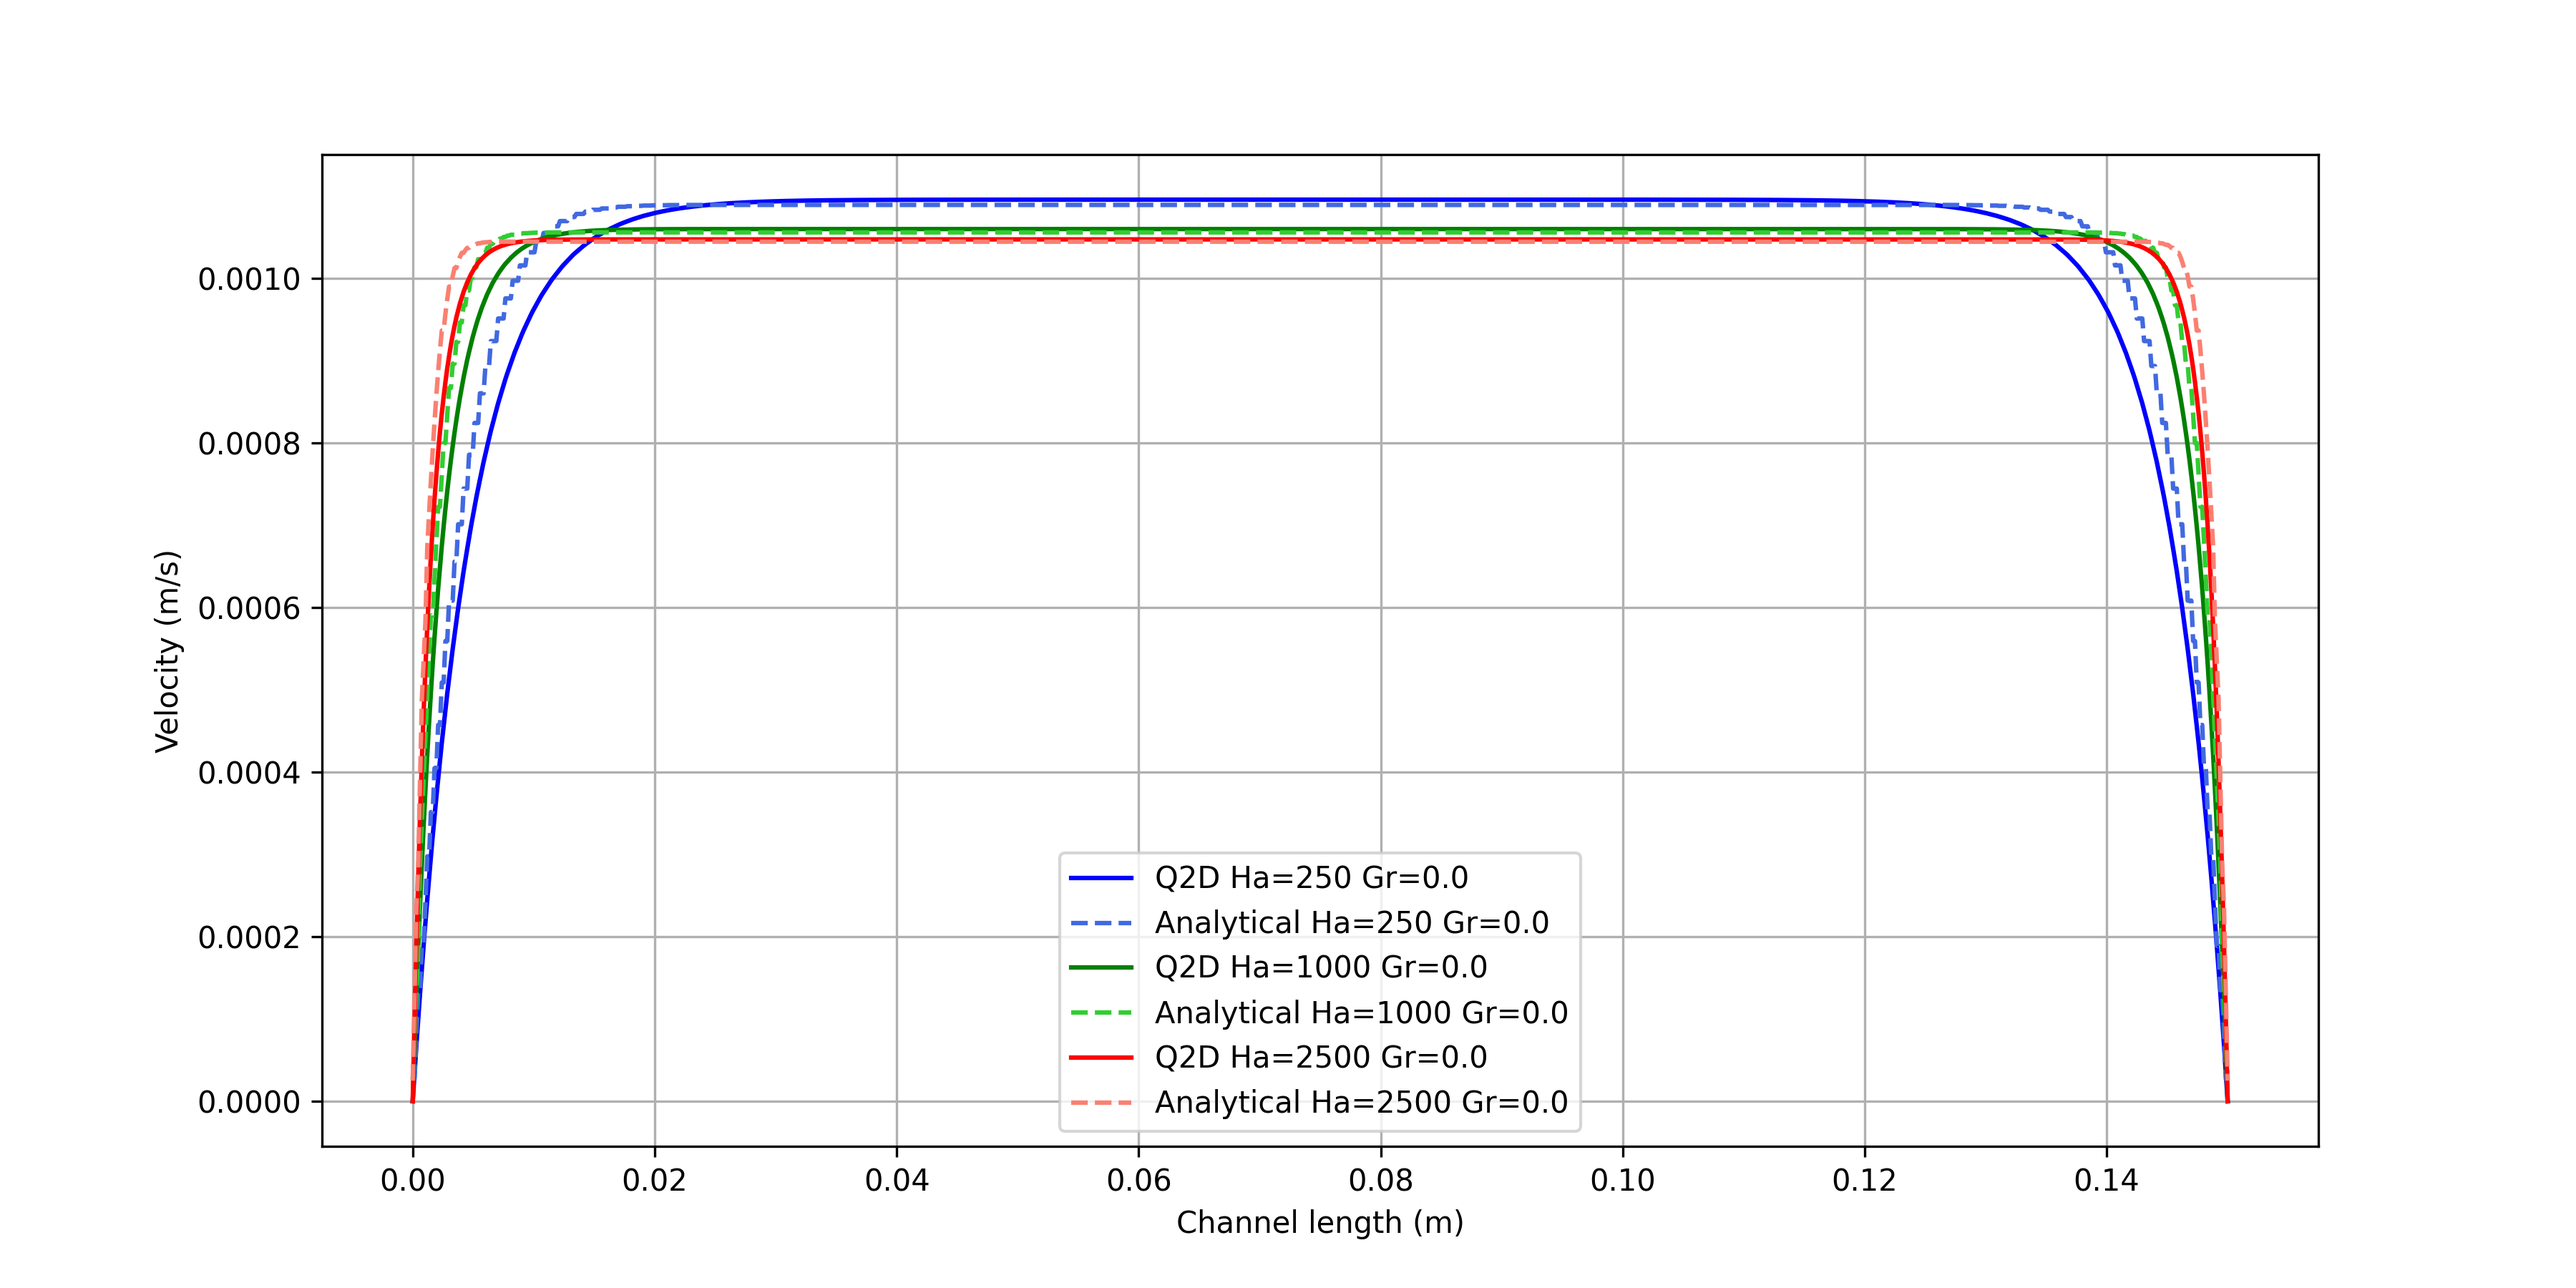
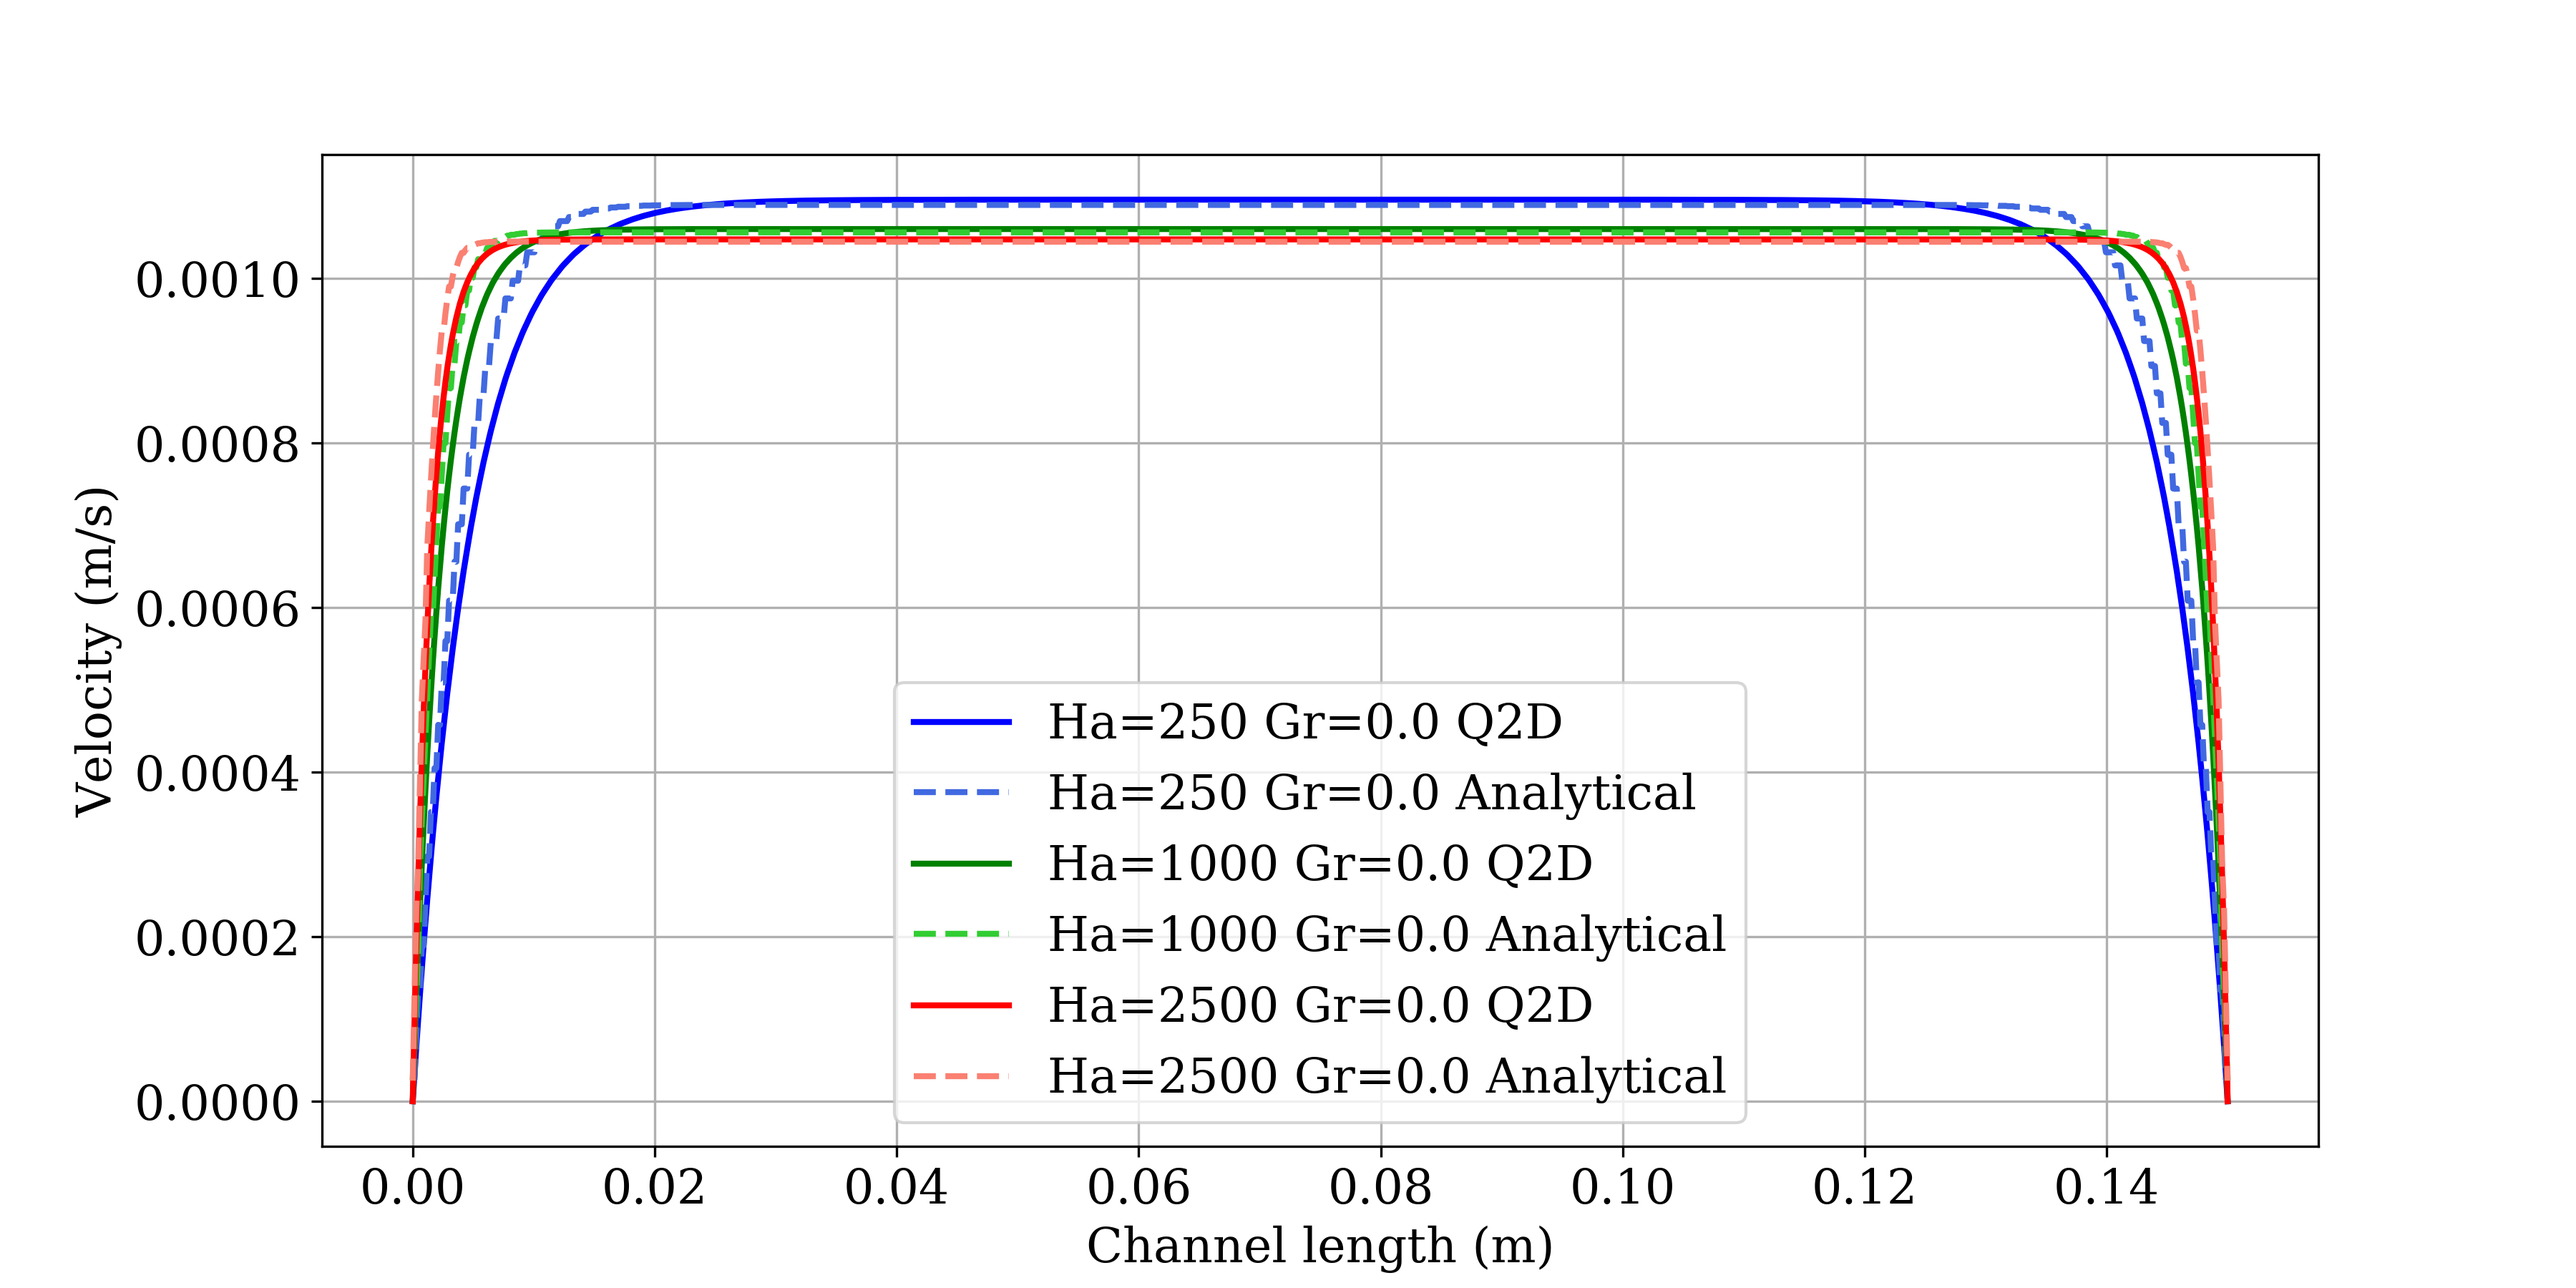
Update validation scripts and outputs
Update plot styles by modifying plt.rcParams dictionary. The general
configuration consists of using the serif font family and 16 as size.

Furthermore, some axis labels and legends were improved

diff --git a/validation/tagawa/validation_tagawa.py b/validation/tagawa/validation_tagawa.py
@@ -8,6 +8,12 @@ sys.path.insert(1, '../../python')
 from meshAndGo import meshAndGo
 from MHDutils import getLatestTime
 
+# Config plots
+font_config = {'font.family'     : 'serif',
+               'font.size'       : 16,
+               'lines.linewidth' : 2}
+plt.rcParams.update(font_config)
+
 def plot_csv(file='tagawa.csv'):
     Ha, maxU, gradU = np.loadtxt(file, unpack=True)
     maxU = np.array(maxU)
@@ -202,10 +208,13 @@ for Ha in Ha_list:
     print('\nMaximum dimensionless velocity: ' + str(maxW_q2d[i]) + '\n' )
     # Plot simulation profile
     if Ha > 0:
-        ax1.plot(z, W, label='Q2D Ha='+str(Ha))
+        ax1.plot(z, W, label='Ha = ' + str(Ha))
     # Store the simulated case in other directory
     sp.call("mv case case_" + str(Ha), shell=True)
     i += 1
+# Plot formatting
+ax1.set_ylabel('Dimensionless velocity, ' + r'$W = U \nu / l$')
+ax1.set_xlabel('Dimensionless length, $x/l$')
 ax1.legend(loc='best')
 ax1.grid(True)
 fig1.savefig('validation_tagawa_profiles.png', format='png', dpi=300)

diff --git a/validation/tepot/validation.py b/validation/tepot/validation.py
@@ -12,6 +12,12 @@ sys.path.insert(1, '../../python')
 from meshAndGo import meshAndGo
 from MHDutils import getLatestTime
 
+# Config plots
+font_config = {'font.family'     : 'serif',
+               'font.size'       : 16,
+               'lines.linewidth' : 2}
+plt.rcParams.update(font_config)
+
 ### INITIALIZATIONS
 validation_dir = 'samples'
 postprocess_dir = 'case/postProcessing/sets/'
@@ -80,8 +86,8 @@ for file in os.listdir(validation_dir):
     filename = postprocess_dir + latest_time + '/' + postprocess_file
     z, U, _, _ = np.loadtxt(filename, unpack= True)
     z_val, _, U_val = np.loadtxt(validation_dir + '/' + file, unpack= True)
-    label_q2d = 'Q2D Ha=' + str(Ha) + ' Gr='+str(Gr)
-    label_val = 'Analytical Ha=' + str(Ha) + ' Gr='+str(Gr)
+    label_q2d = 'Ha=' + str(Ha) + ' Gr='+str(Gr) + ' Q2D'
+    label_val = 'Ha=' + str(Ha) + ' Gr='+str(Gr) + ' Analytical'
 
     # Plot unscaled data
     ax.plot(z, U, linestyle='-', color=color_q2d[i], label=label_q2d)

diff --git a/validation/shercliff/validation.py b/validation/shercliff/validation.py
@@ -14,6 +14,12 @@ sys.path.insert(1, '../../python')
 from meshAndGo import meshAndGo
 from MHDutils import getLatestTime, shercliff_profile
 
+# Config plots
+font_config = {'font.family'     : 'serif',
+               'font.size'       : 16,
+               'lines.linewidth' : 2}
+plt.rcParams.update(font_config)
+
 ### INITIALIZATIONS
 validation_dir = 'samples'
 postprocess_dir = 'case/postProcessing/sets/'
@@ -161,8 +167,8 @@ for Ha in Ha_list:
 
     # General big plotting
     # Prepare labels
-    label_q2d = 'Q2D Ha=' + str(Ha) + ' Gr='+str(Gr)
-    label_val = 'Analytical Ha=' + str(Ha) + ' Gr='+str(Gr)
+    label_q2d = 'Ha=' + str(Ha) + ' Gr='+str(Gr) + ' Q2D'
+    label_val = 'Ha=' + str(Ha) + ' Gr='+str(Gr) + ' Analytical'
     # Plot unscaled data
     ax.plot(z, U, linestyle='-', color=color_q2d[i], label=label_q2d)
     ax.plot(z_val, U_val, linestyle='--', color=color_val[i], label=label_val)

diff --git a/validation/poiseuille/validation.py b/validation/poiseuille/validation.py
@@ -7,6 +7,11 @@ sys.path.insert(1, '../../python')
 from meshAndGo import meshAndGo
 from MHDutils import getLatestTime
 
+# Config plots
+font_config = {'font.family'    : 'serif',
+               'font.size'      : 20}
+plt.rcParams.update(font_config)
+
 # Setup case
 tag_dict = {
     'B'   : '?',
@@ -58,8 +63,8 @@ mu = phys_dict['rho0']*phys_dict['nu']
 u_val = (deltaP*phys_dict['rho0']) /(2*mu) * y * (h-y)
 
 # Plot
-ax.plot(y, u_val, label='Poiseuille')
-ax.plot(z, u_q2d, linestyle='dotted', color='r', linewidth=3, label='Q2D')
+ax.plot(y, u_val/u_val.mean(), label='Poiseuille', linewidth=3)
+ax.plot(z, u_q2d/u_val.mean(), linestyle='dotted', color='r', linewidth=7, label='Q2D')
 ax.grid(True)
 ax.set_ylabel('Velocity (m/s)')
 ax.set_xlabel('Channel length (m)')
